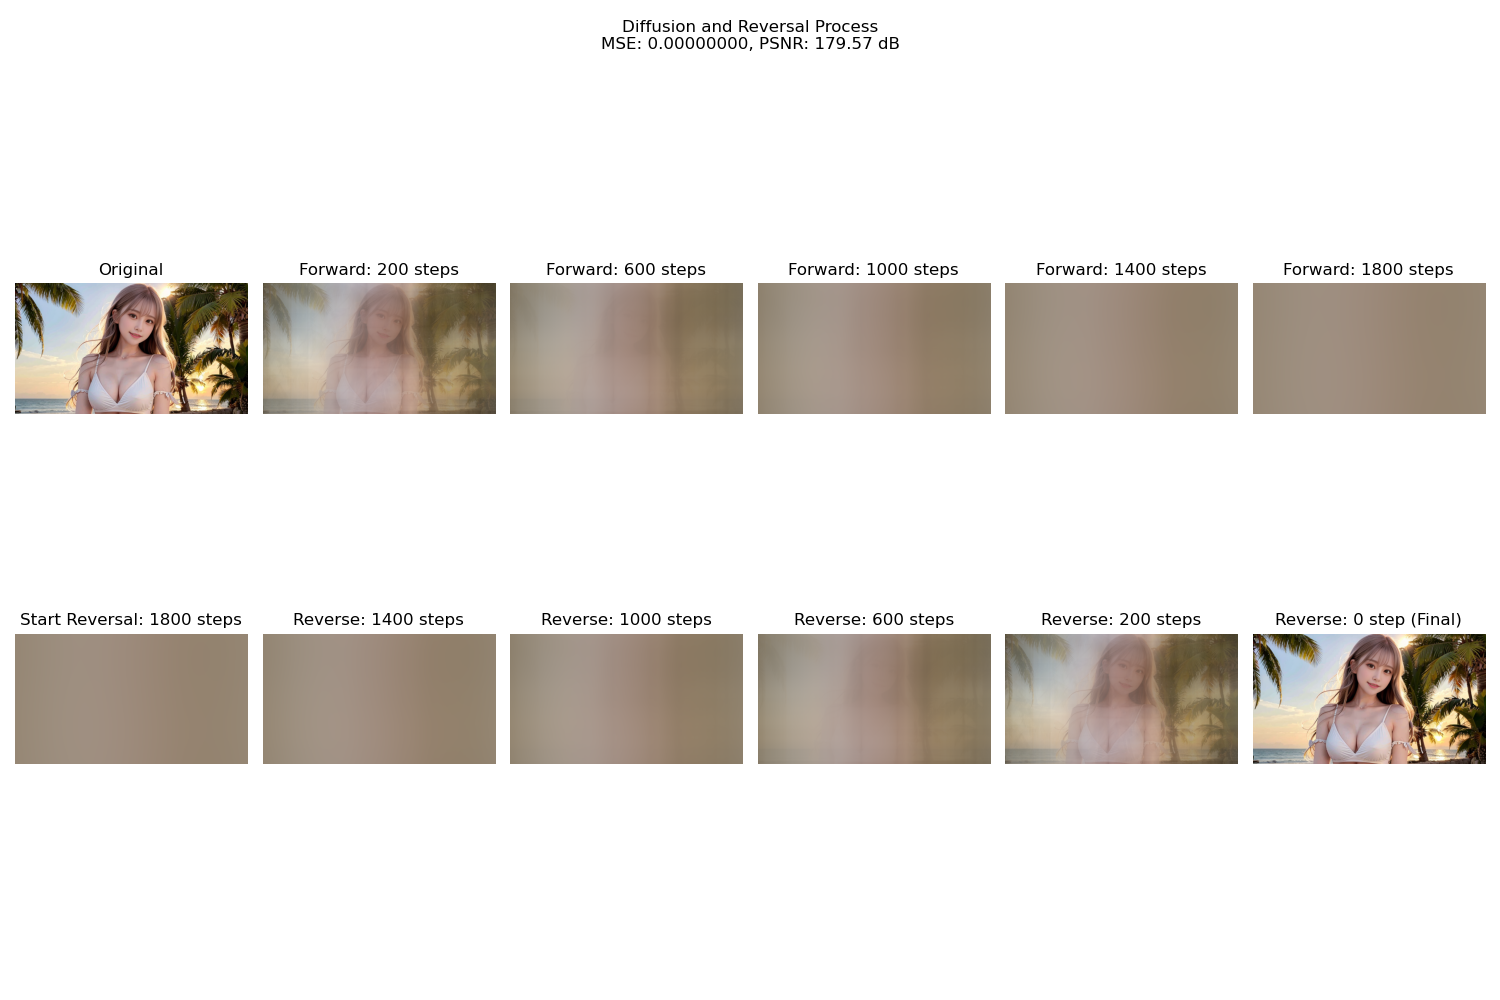
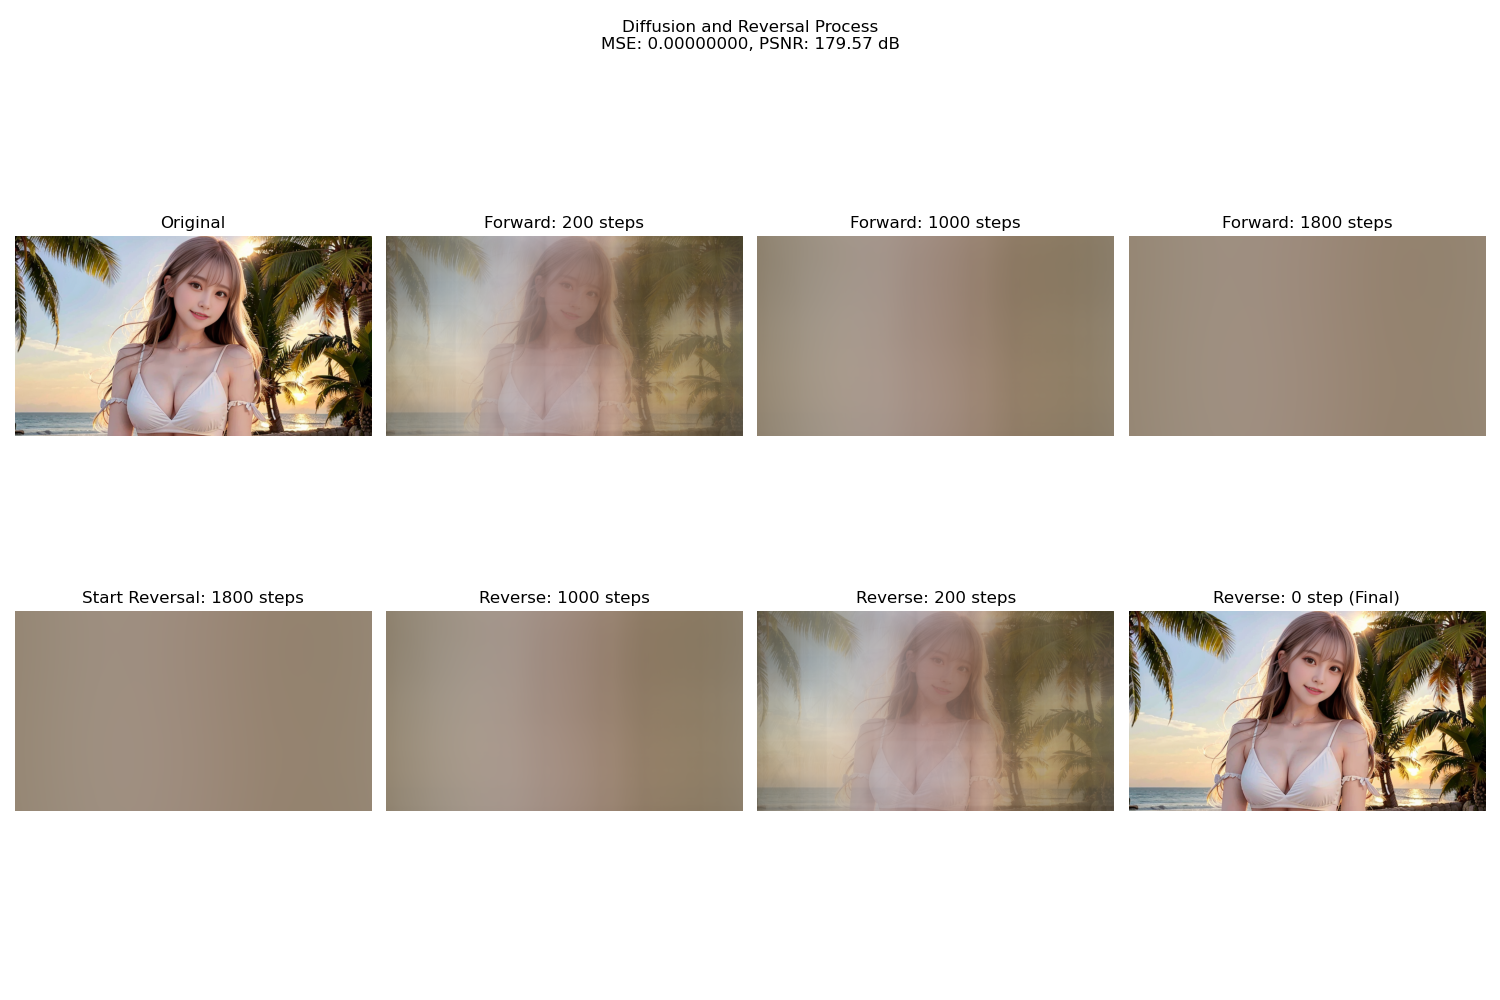
Updated front page image

Changed region(s): [[0.0, 0.589, 1.0, 0.837], [0.0, 0.217, 1.0, 0.434]]

diff --git a/diffusion_reversal.py b/diffusion_reversal.py
@@ -256,7 +256,7 @@ def main():
     f_initial_red = solver.f[0].copy_to_host()
     
     # Define checkpoints for visualization
-    checkpoints = [200, 600, 1000, 1400, 1800]  # Points at which to visualize
+    checkpoints = [200, 1000, 1800]  # Points at which to visualize
     
     # Create figure for visualization
     plt.figure(figsize=(15, 10))
